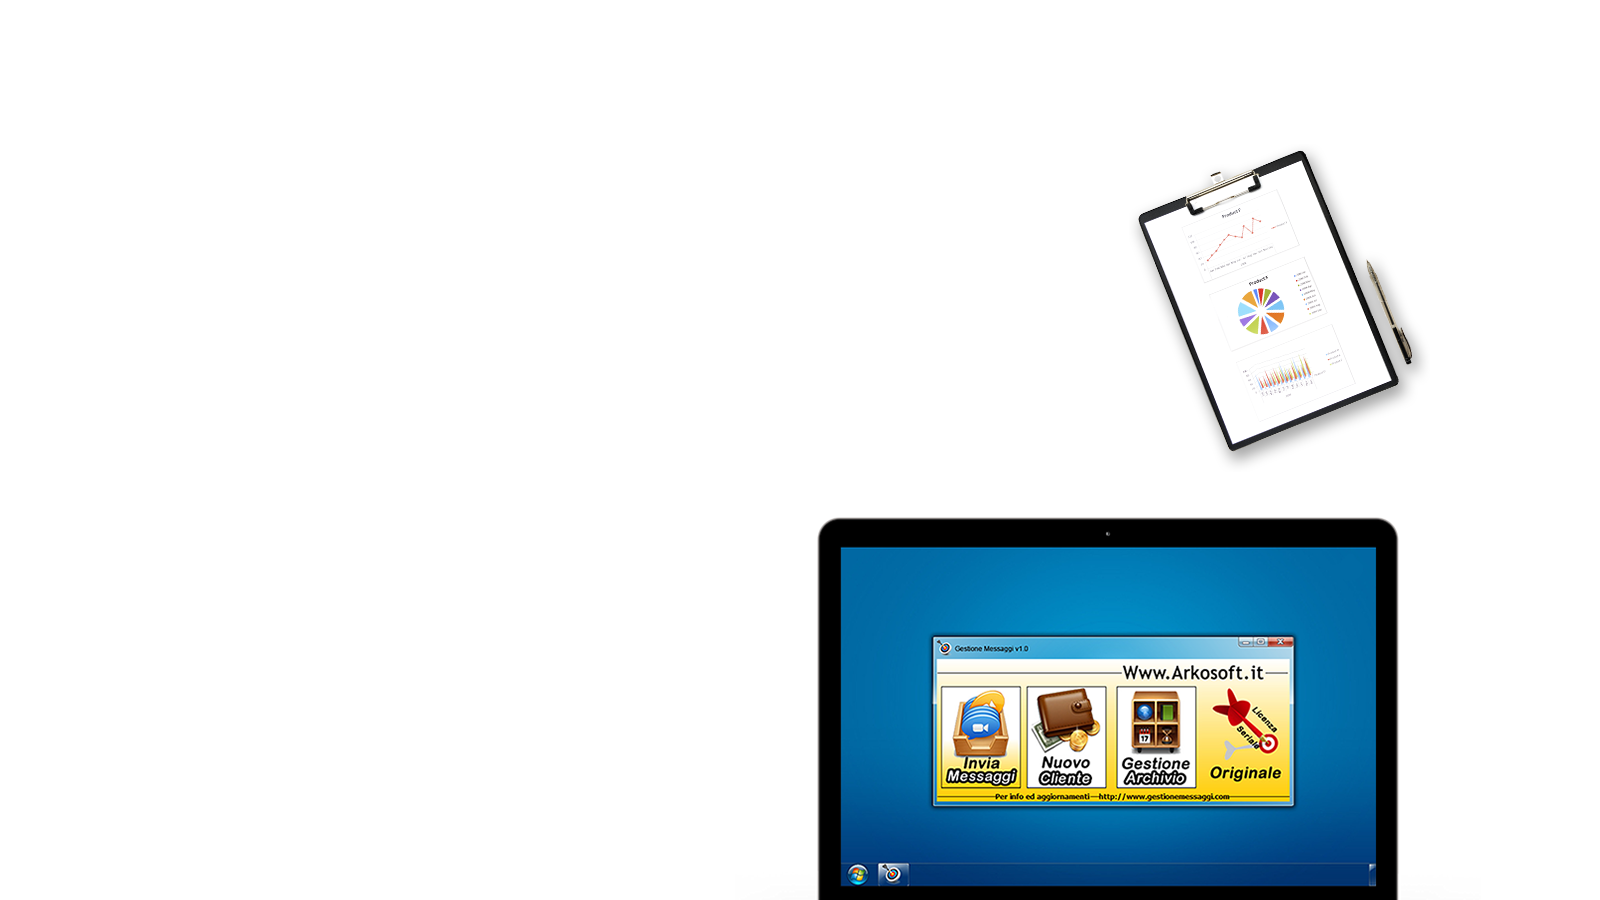
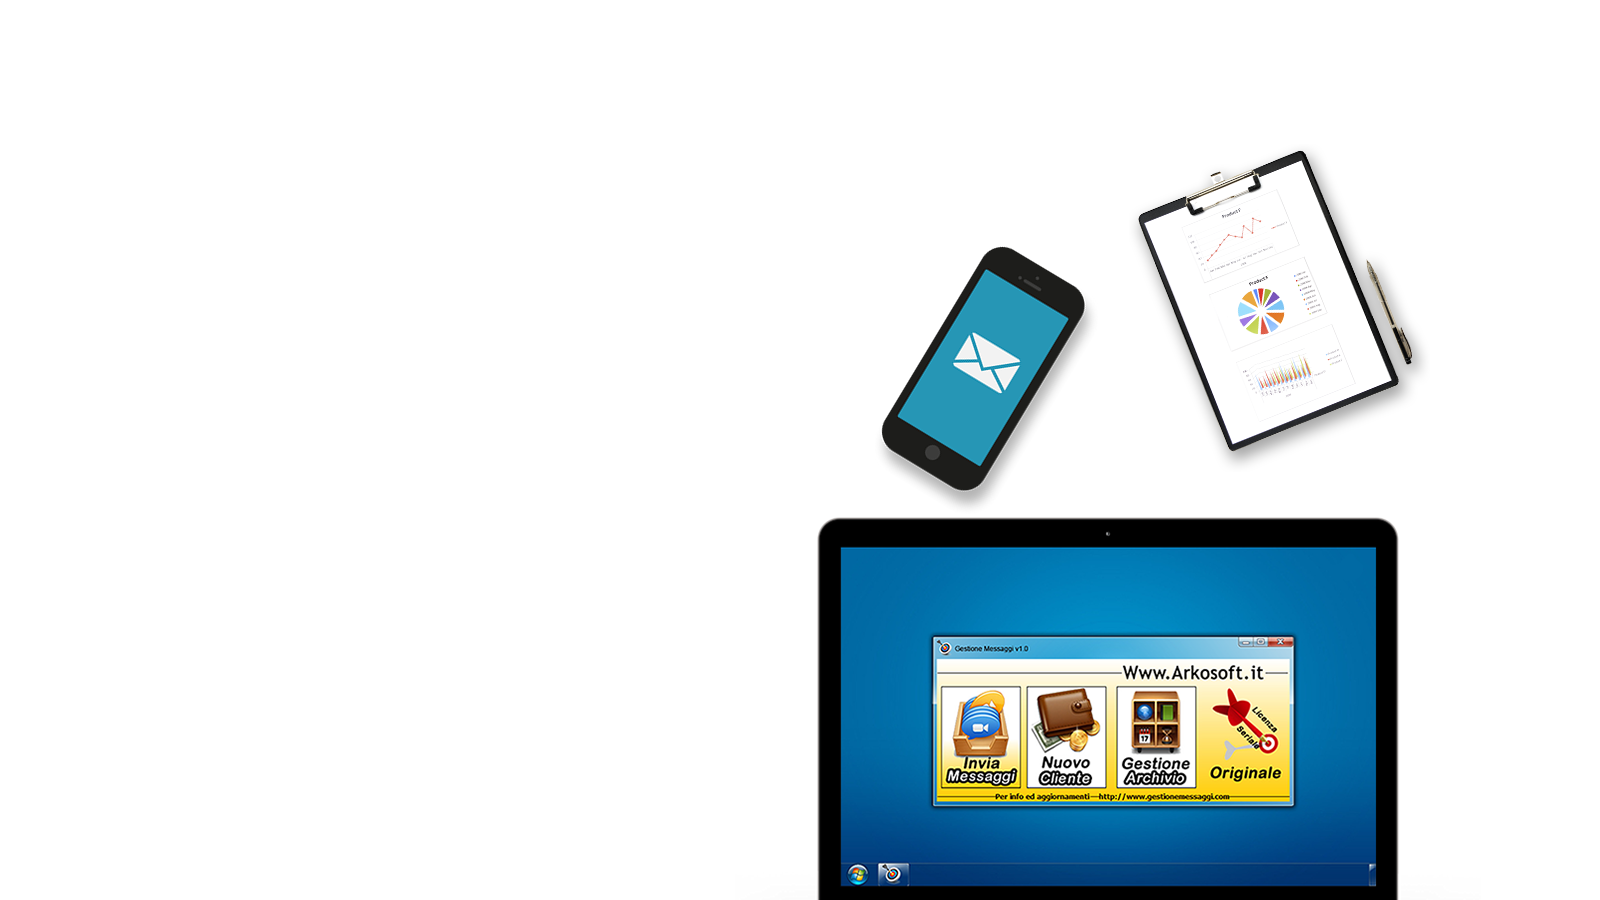
corerzione bag
inserire icona in gestione messaggi (cellulare)
torgliere in mondo arkosoft .png (perche dava errorere)

Changed region(s): [[0.5312, 0.28, 0.6875, 0.56]]

diff --git a/index.html b/index.html
@@ -285,7 +285,7 @@
 										<li>
 											<div class="sub-generale">
 												<div class="sub-content">
-													<img src=".png" alt="immagine articolo" width="50" height="50">
+													<img src="" alt="immagine articolo" width="50" height="50">
 												</div>
 												<div class="sub-content1">
 													<span>TITOLO ARTICOLO</span>
@@ -296,7 +296,7 @@
 											</div>
 											<div class="sub-generale">
 												<div class="sub-content">
-													<img src=".png" alt="immagine articolo" width="50" height="50">
+													<img src="" alt="immagine articolo" width="50" height="50">
 												</div>
 												<div class="sub-content1">
 													<span>TITOLO ARTICOLO</span>
@@ -307,7 +307,7 @@
 											</div>
 											<div class="sub-generale">
 												<div class="sub-content">
-													<img src=".png" alt="immagine articolo" width="50" height="50">
+													<img src="" alt="immagine articolo" width="50" height="50">
 												</div>
 												<div class="sub-content1">
 													<span>TITOLO ARTICOLO</span>
